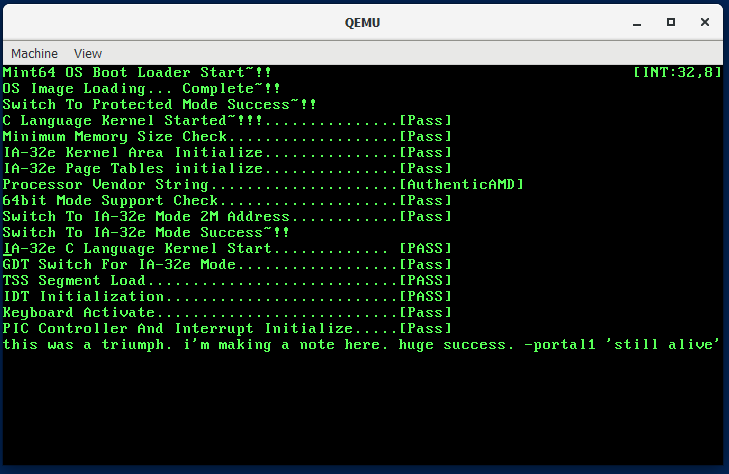
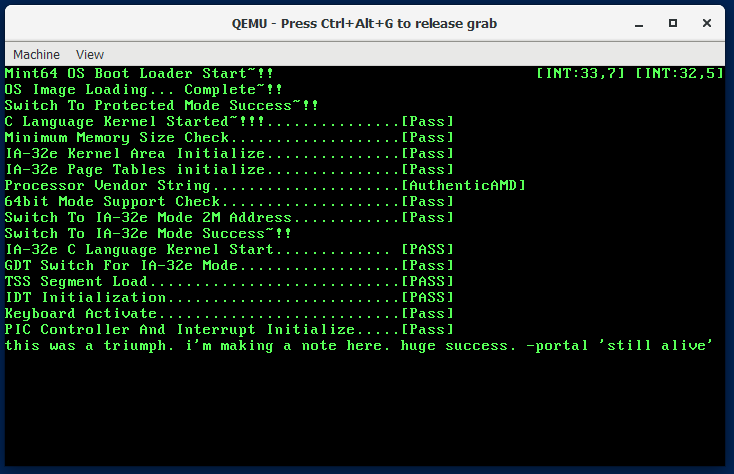
Ch13: show number of keyboard inuterrpt at the top right corner too

Changed region(s): [[0.0, 0.0, 0.9959, 0.9747], [0.5432, 0.2363, 0.7243, 0.4726], [0.0, 0.0, 0.0302, 0.0295]]

diff --git a/Ch13/02.Kernel64/Source/InterruptHandler.c b/Ch13/02.Kernel64/Source/InterruptHandler.c
@@ -65,7 +65,7 @@ void kKeyboardHandler(int iVectorNumber) {
     // interrupt count
     vcBuffer[8] = '0' + g_iCommonInterruptCount;
     g_iCommonInterruptCount = (g_iCommonInterruptCount + 1) % 10;
-    kPrintString(70, 0, vcBuffer);
+    kPrintString(59, 0, vcBuffer);
 
     // send EOI to PIC controller
     // reason for iVectorNumber - PIC_IRQSTARTVECTOR is that
